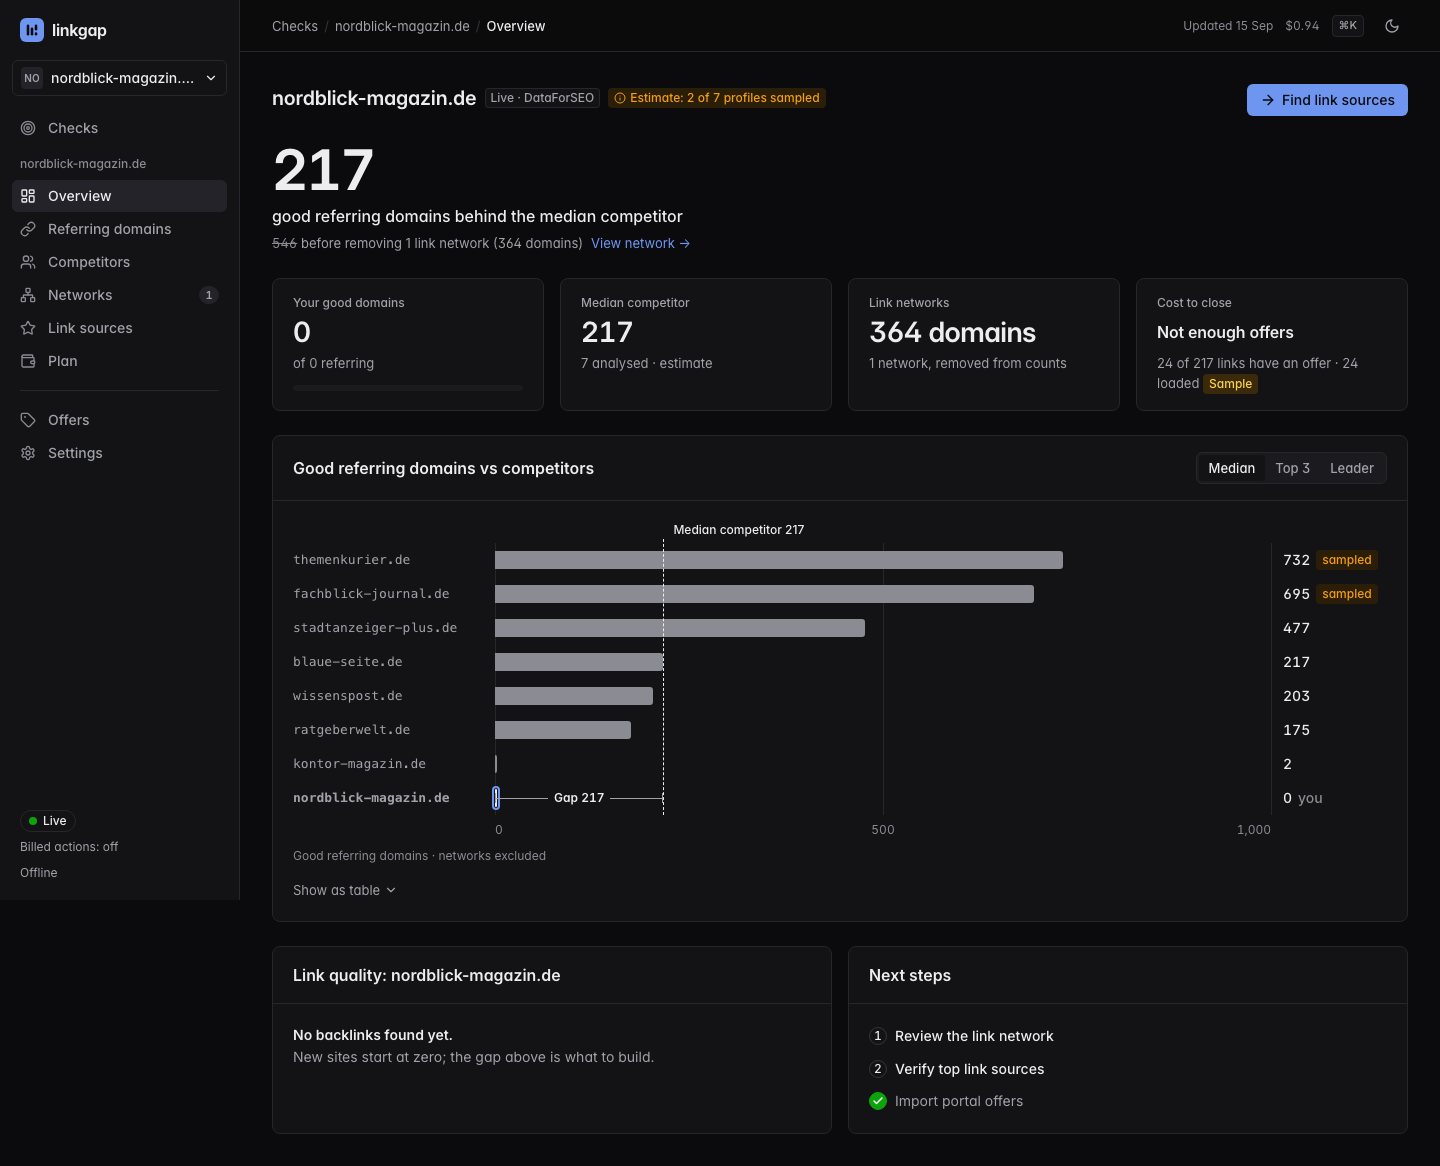
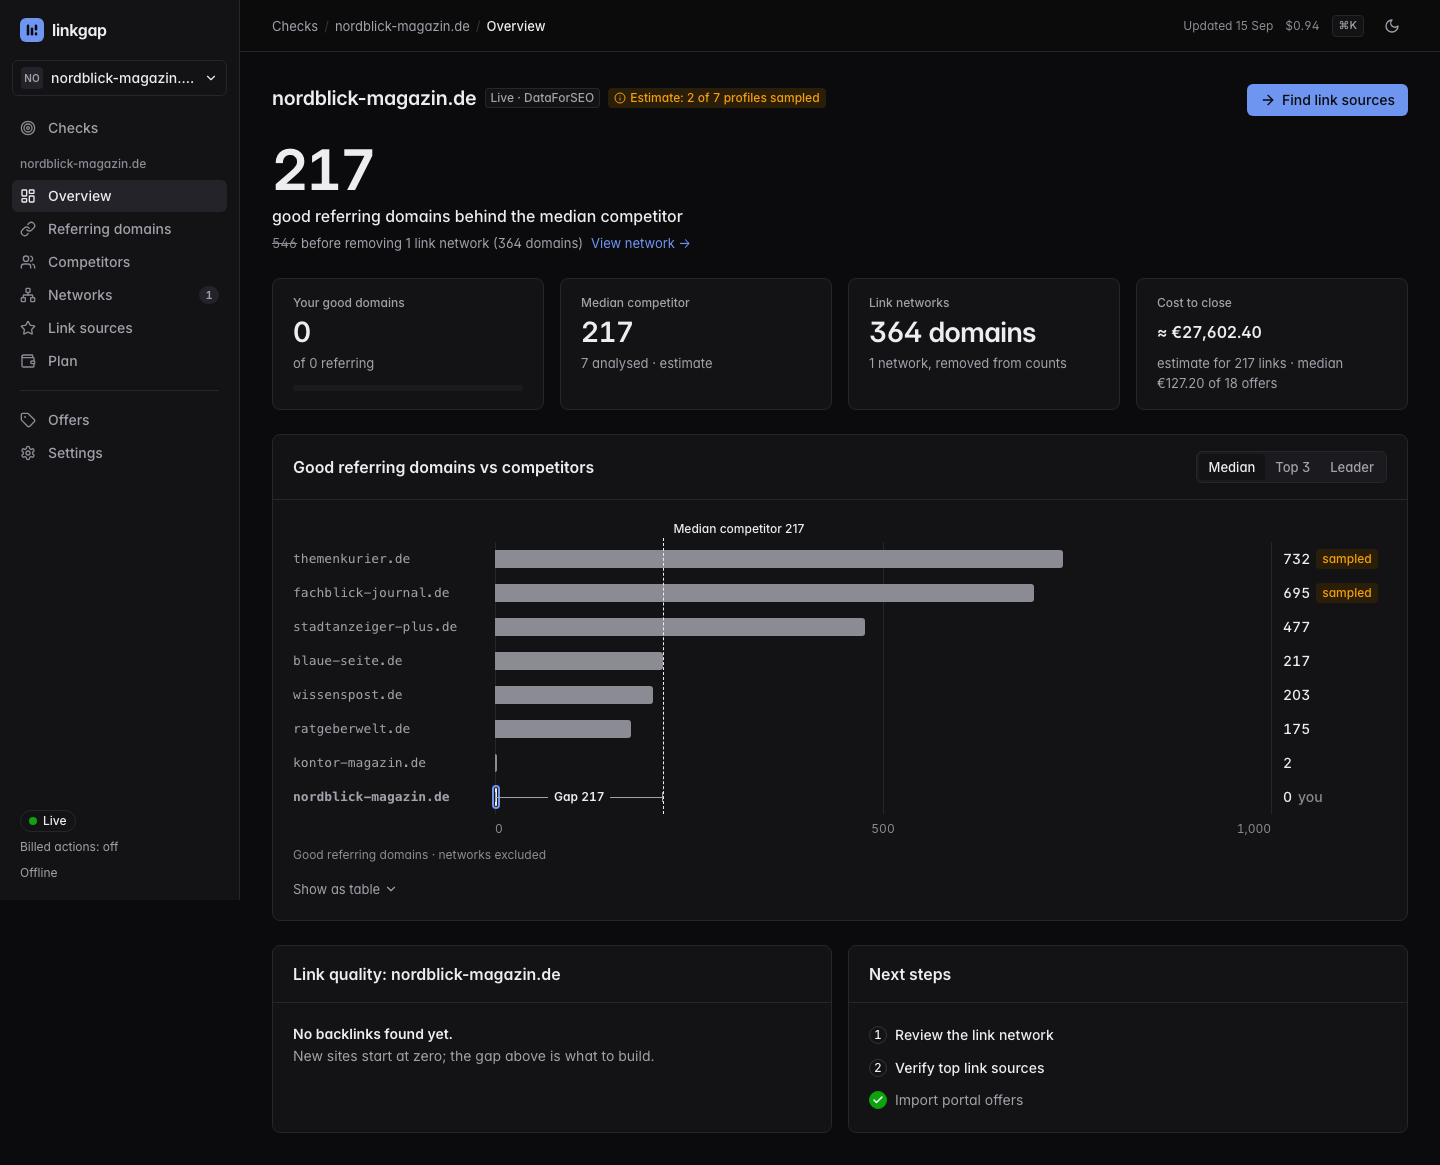
Plan section: the estimate for closing the whole gap
Claude-Session: https://claude.ai/code/session_012yyshPtUyHD4xxq4cyuqhN

Changed region(s): [[0.8125, 0.2781, 0.9375, 0.3399], [0.5, 0.4326, 0.5312, 0.4635]]

diff --git a/index.html b/index.html
@@ -87,8 +87,8 @@
       <figure class="shot shot-hero">
         <picture>
           <source srcset="img/overview-dark.png" media="(prefers-color-scheme: dark)">
-          <img src="img/overview-light.png" width="1440" height="1166" decoding="async"
-               alt="The linkgap overview screen: a headline figure of 217 good referring domains behind the median competitor, a struck-through 546 before removing one link network of 364 domains, four tiles for your good domains, median competitor, link networks and cost to close, and a bar chart comparing seven competitors with a dashed median line.">
+          <img src="img/overview-light.png" width="1440" height="1165" decoding="async"
+               alt="The linkgap overview screen: a headline figure of 217 good referring domains behind the median competitor, a struck-through 546 before removing one link network of 364 domains, four tiles for your good domains, median competitor, link networks and cost to close showing an estimate of about €27,602 for all 217 links at a median offer price of €127.20, and a bar chart comparing seven competitors with a dashed median line.">
         </picture>
       </figure>
     </div>
@@ -217,20 +217,22 @@
                 domains that already link to you, with any portal surcharge as its own column so
                 the total is what you actually pay. At €1,500, real prices from a German link
                 marketplace bought 12 links for €1,338.62, and the planner said plainly that 205 links
-                were still missing and only 18 offers matched at all.
+                were still missing and only 18 offers matched at all — then priced the rest anyway:
+                at the median of those prices, closing the whole gap runs to about €27,600.
               </p>
             </div>
           </div>
           <figure class="shot">
             <picture>
               <source srcset="img/plan-dark.png" media="(prefers-color-scheme: dark)">
-              <img src="img/plan-light.png" width="1440" height="1104" loading="lazy" decoding="async"
-                   alt="The budget plan screen with a budget meter at €1,338.62 of €1,500 with €161.38 left, a links meter at 12 of 217 with 205 still missing, and a table of offers with base price, surcharge and total, every row badged Sample.">
+              <img src="img/plan-light.png" width="1440" height="1124" loading="lazy" decoding="async"
+                   alt="The budget plan screen with a budget meter at €1,338.62 of €1,500 with €161.38 left, a links meter at 12 of 217 with 205 still missing, an estimate of about €27,602 to buy all 217 at the median price of €127.20, and a table of offers with base price, surcharge and total.">
             </picture>
           </figure>
           <p class="shot-note">
-            The offers in this screen are the built-in sample set: invented prices, labelled as
-            sample everywhere they appear.
+            The prices in this screen are real prices from a German link marketplace; only the
+            site names are fictional. The estimate is labelled as one: median price × links still
+            needed, with the range from the cheaper and dearer quarters of the same offers.
           </p>
         </li>
 
